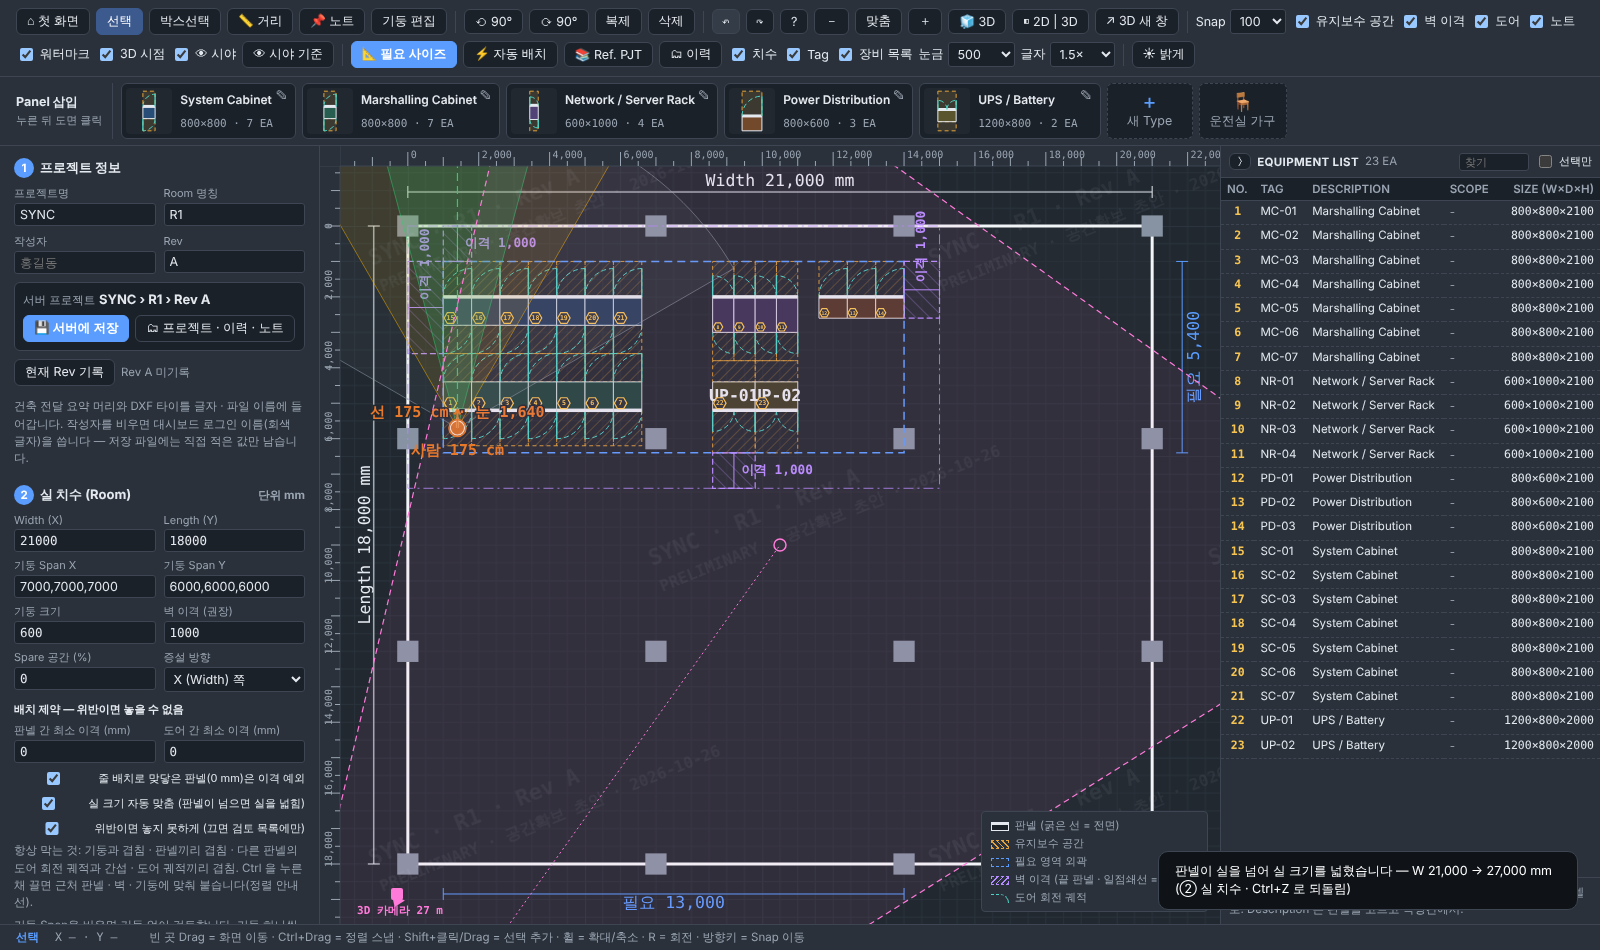
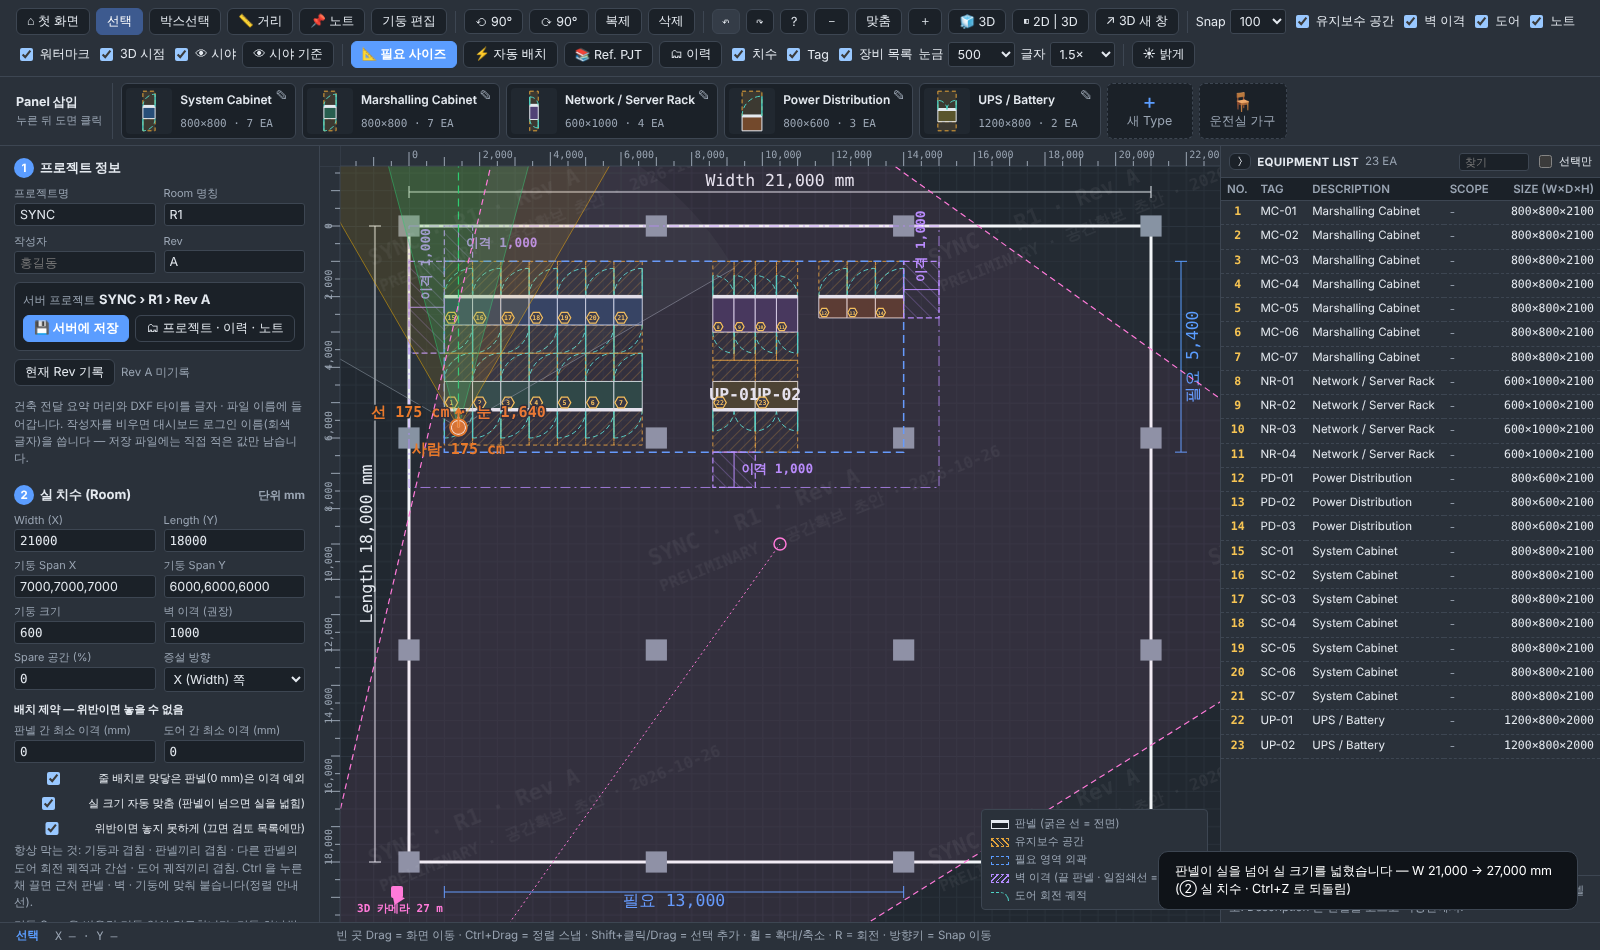
hotfix122: 판넬 10-26 셋째 판(093c451 가볍게) 들여옴 — 2D 층 나눠 바뀐 것만 다시 그림 · 끄는 중 검사 줄임
Claude-Session: https://claude.ai/code/session_01WwuoSdM1i7hawTX2WzFPhT

diff --git a/app/space.py b/app/space.py
@@ -1,7 +1,7 @@
 """판넬 공간확보 — P&ID · LOGIC 과 같은 서버(8000)의 /space 화면 · /space/api/* (hotfix106).
 
 판넬 화면(`app/static/space/index.html`)은 대시보드 브랜치 `ccr-d82d97fa-bb3ty3` 의
-`dashboard/apps/space/index.html` 을 들여온 것이고 (hotfix116 에 2026-10-24 판 `c6d1402` · hotfix120 에 10-26 판 `3956bbd` · hotfix121 에 `d890bb5`(+ `ref.js` → `app/static/space/ref.js`) 로 다시 들여옴 —
+`dashboard/apps/space/index.html` 을 들여온 것이고 (hotfix116 에 2026-10-24 판 `c6d1402` · hotfix120 에 10-26 판 `3956bbd` · hotfix121 에 `d890bb5`(+ `ref.js` → `app/static/space/ref.js`) · hotfix122 에 `093c451` 로 다시 들여옴 —
 판넬 화면을 바꾸면 그 브랜치의 최신판과 이 파일을 세 갈래로 합치고 `/space/api` 고침을 되살린다), 저장 API 는 그 대시보드 `server.py` 의
 `api_space_*` 를 같은 꼴(같은 경로 · 같은 응답 · 같은 파일 구조)로 옮겼다:
 

diff --git a/tests/test_hotfix122_space_light.py b/tests/test_hotfix122_space_light.py
@@ -1,0 +1,14 @@
+"""hotfix122 — 판넬 화면 10-26 셋째 판(093c451 '가볍게'): 2D 도면을 층으로 나눠 바뀐 것만 다시 그림. 우리 고침은 그대로."""
+from pathlib import Path
+
+ROOT = Path(__file__).resolve().parents[1]
+
+
+def test_light_render_is_in_and_our_adaptations_kept():
+    s = (ROOT / "app/static/space/index.html").read_text(encoding="utf-8")
+    assert "svgLayers(" in s and "let VPC=null" in s and "dragChk(" in s   # 093c451 이 들어왔다
+    assert '<script src="/static/space/ref.js"></script>' in s
+    assert '<script src="/static/offline.js" data-app="space"></script>' in s
+    assert "confirm(" not in s and "prompt(" not in s
+    assert "if(!AUTH_TOKEN)" not in s
+    assert "await preflight(" in s

diff --git a/CLAUDE.md b/CLAUDE.md
@@ -5145,6 +5145,13 @@ offline.js 줄 옆에 `ref.js` 줄 · 필요 사이즈 내보내기(`await prefl
 ★ 새 룸은 Option A(자동 배치) 창부터 연다 — 화면 자기검증 둘이 그 창을 닫고/예시 배치로 시작하게 고쳤다.  시험 `tests/test_hotfix121_space_ref.py` 2건 ·
 `ui_audit_space116`(11 · Option A 창 확인) · `ui_audit_space120_sync`(3D 창 연동) 전부 통과 · Ref 21룸 화면에 뜸 · 페이지 오류 0.
 
+**그 다음 — 판넬 10-26 셋째 판: 가볍게 (hotfix122 · 판정 0줄)**
+
+판넬 브랜치 `ccr-d82d97fa-bb3ty3` 의 `d890bb5..093c451` (화면 커밋 하나 — 2D 도면 층 나눠 바뀐 것만 다시 그림 `svgLayers` · 크기 기억 `VPC` ·
+끄는 중 검사 한 프레임에 한 번 `dragChk` · 3D 동기 0.15초 · 새 창 보내기 0.1초 · WebGL `preserveDrawingBuffer:false`)를 세 갈래로 합쳤다 — **충돌 0**.
+바뀐 파일은 `app/static/space/index.html` 하나 (`ref.js` 그대로).  시험 `tests/test_hotfix122_space_light.py` · `ui_audit_space116`(11) ·
+`ui_audit_space120_sync`(7) 전부 통과 · 페이지 오류 0.
+
 ## 4. 미해결 과제 (다음 단계 후보) — 우선순위 순
 
 1. **순번은 "안 붙인 것"이 최대 원인입니다** (오답 203건: 발주처는 붙였는데 우리는
